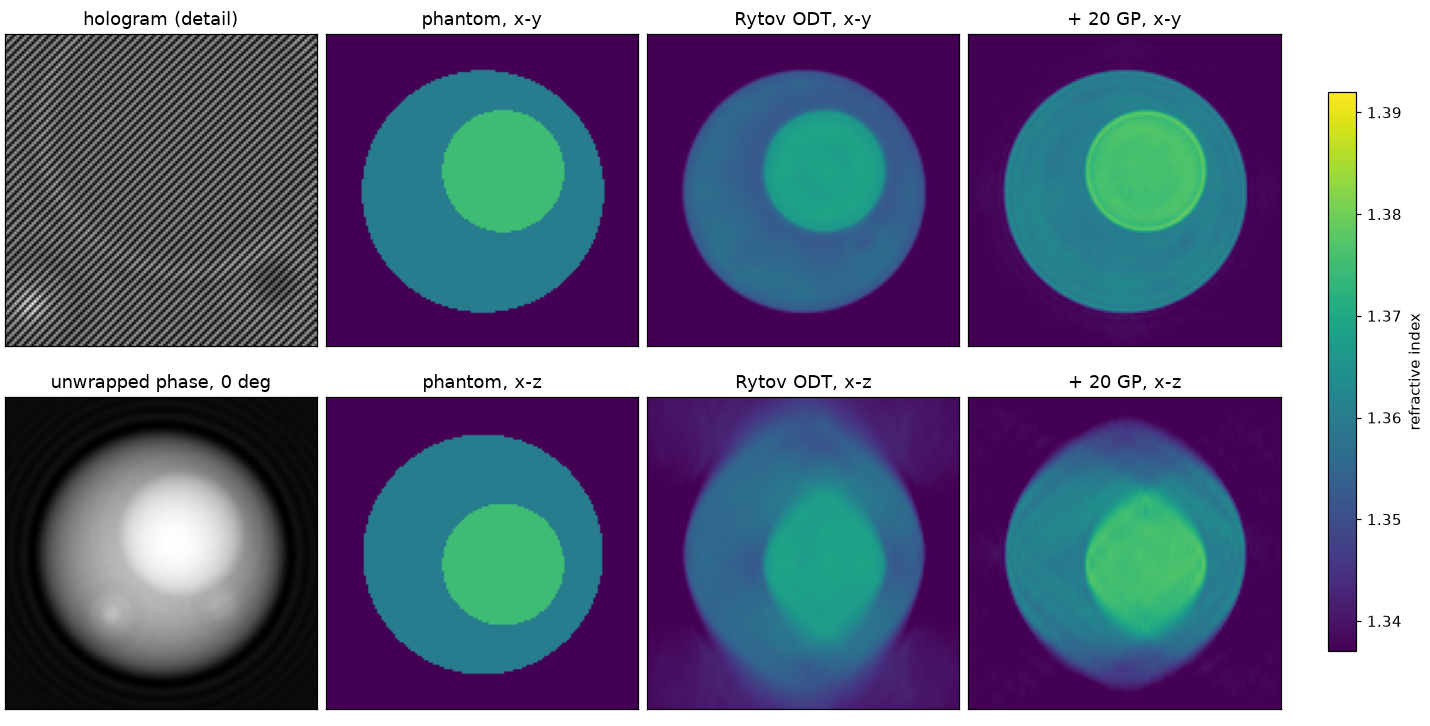
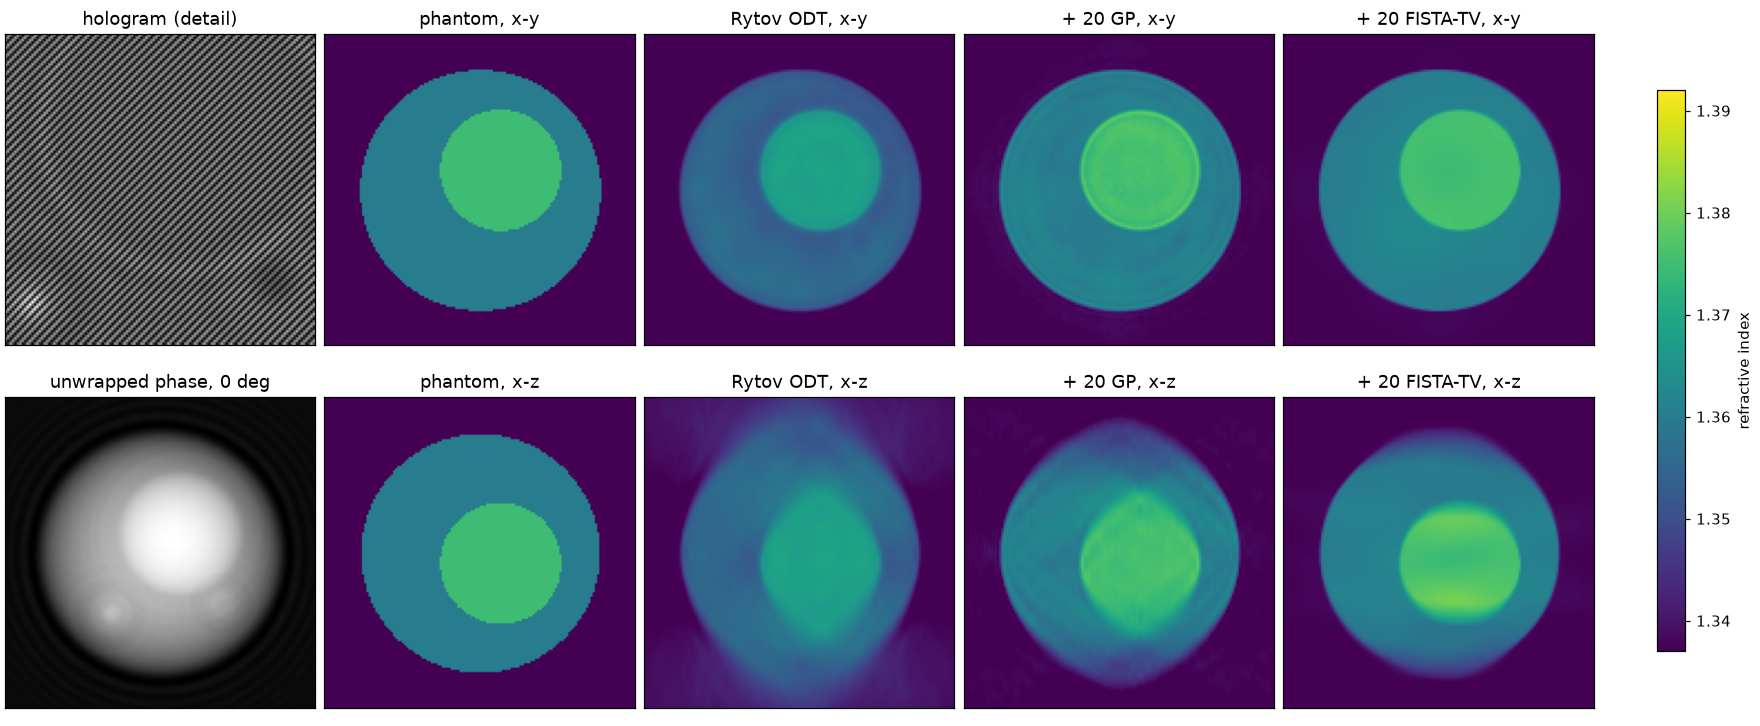
docs: FISTA-TV in the README figure

diff --git a/examples/readme_figure.py b/examples/readme_figure.py
@@ -53,6 +53,9 @@ rytov = qh.rytov(fields, backend=args.backend)
 plain = qh.reconstruct(rytov, estimated, geom, backend=args.backend)
 gp = qh.reconstruct(rytov, estimated, geom, iterations=20, backend=args.backend)
 elapsed = time.perf_counter() - t0
+t0 = time.perf_counter()
+tv = qh.reconstruct(rytov, estimated, geom, iterations=20, solver="tv", backend=args.backend)
+elapsed_tv = time.perf_counter() - t0
 
 truth = qh.render_phantom(cell, geom, N, N)
 z, y, x = (np.indices(truth.shape) - N // 2) * geom.pixel
@@ -64,22 +67,23 @@ def rmse(a):
 
 
 print(f"backend {args.backend}, pipeline time {elapsed:.2f} s (2 x {ANGLES} holograms, {N}^3)")
+print(f"FISTA-TV, 20 x 10 iterations: {elapsed_tv:.2f} s")
 print(f"largest illumination estimate error {illum_error:.2e} cycles/um")
-inner = plain[nucleus].mean(), gp[nucleus].mean()
-print(f"nucleus mean RI: truth 1.3750, plain {inner[0]:.4f}, GP {inner[1]:.4f}")
-print(f"RMSE vs phantom: plain {rmse(plain):.2e}, GP {rmse(gp):.2e}")
+for name, vol in [("plain", plain), ("GP", gp), ("TV", tv)]:
+    print(f"{name}: nucleus mean RI {vol[nucleus].mean():.4f} (truth 1.3750), RMSE {rmse(vol):.2e}")
 
 zc = N // 2 + round(0.5 / geom.pixel)
 yc = N // 2 + round(-1.0 / geom.pixel)
 crop = slice(N // 2 - 70, N // 2 + 70)
-fig, ax = plt.subplots(2, 4, figsize=(13, 6.6), constrained_layout=True)
+fig, ax = plt.subplots(2, 5, figsize=(16, 6.6), constrained_layout=True)
 ax[0, 0].imshow(holo[0, 200:328, 200:328], cmap="gray")
 ax[0, 0].set_title("hologram (detail)")
 ax[1, 0].imshow(rytov[0].imag[crop, crop], cmap="gray")
 ax[1, 0].set_title("unwrapped phase, 0 deg")
 vmin, vmax = geom.n_medium, 1.392
 im = None
-for col, (name, vol) in enumerate([("phantom", truth), ("Rytov ODT", plain), ("+ 20 GP", gp)], 1):
+volumes = [("phantom", truth), ("Rytov ODT", plain), ("+ 20 GP", gp), ("+ 20 FISTA-TV", tv)]
+for col, (name, vol) in enumerate(volumes, 1):
     ax[0, col].imshow(vol[zc, crop, crop], vmin=vmin, vmax=vmax, cmap="viridis")
     ax[0, col].set_title(f"{name}, x-y")
     im = ax[1, col].imshow(vol[crop, yc, crop], vmin=vmin, vmax=vmax, cmap="viridis")
